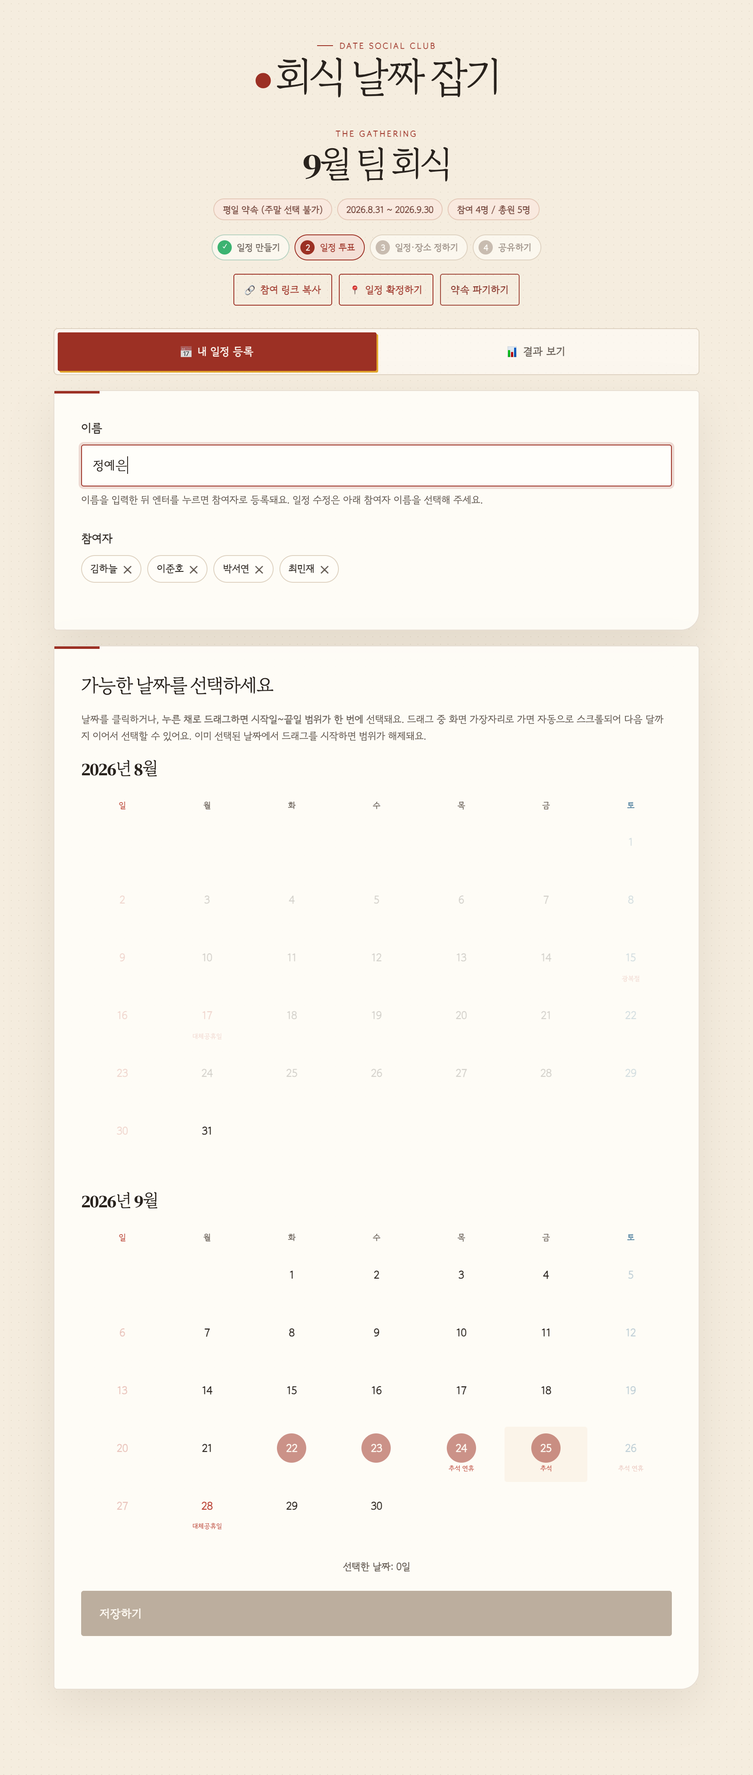
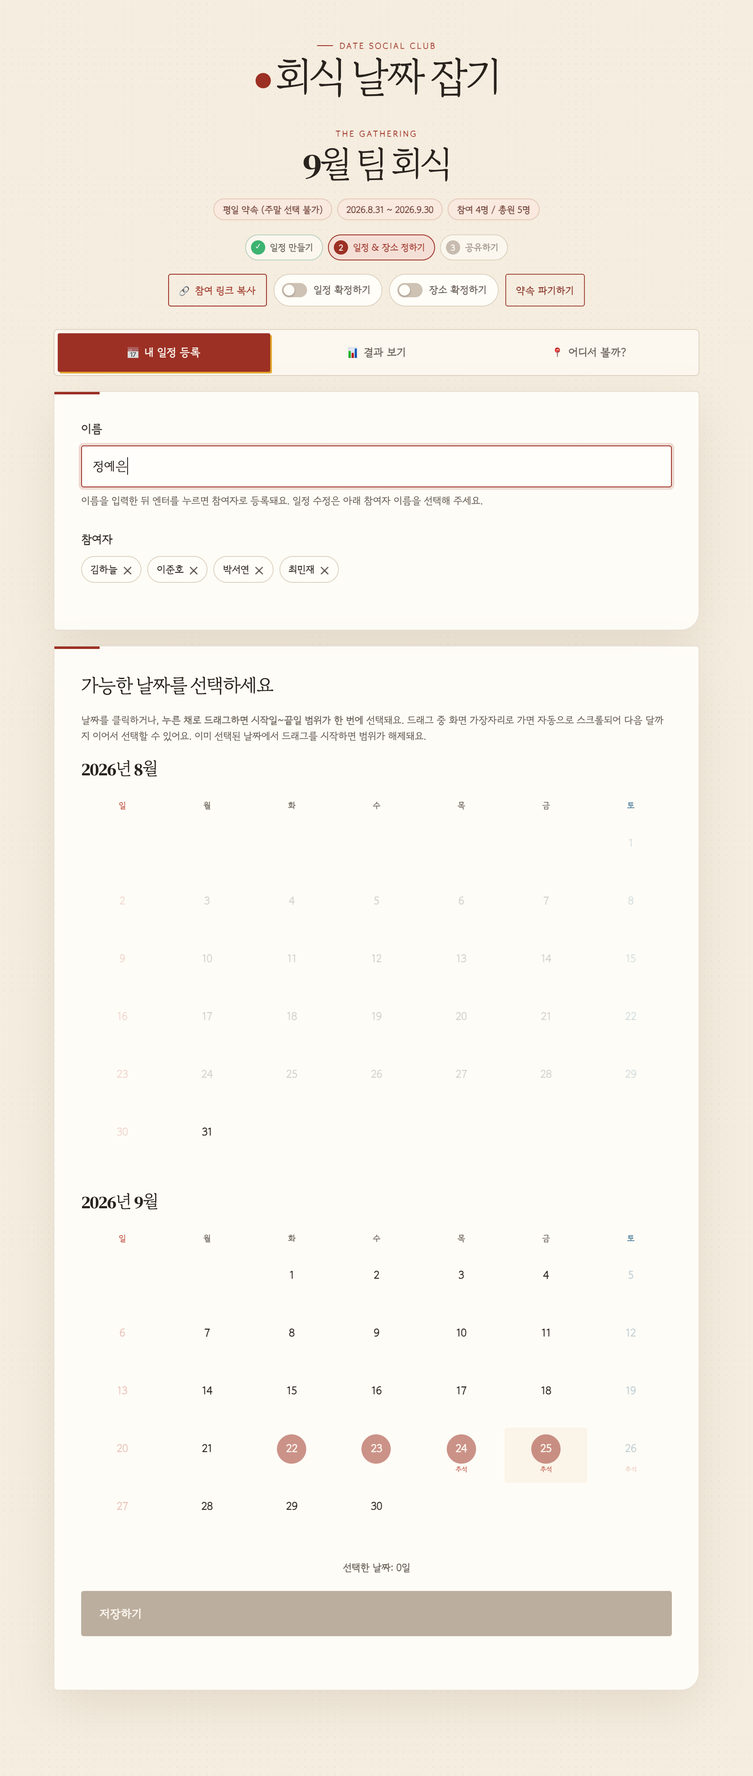
장소 정하기를 일정 확정과 병행하도록 절차 변경
- '어디서 볼까?' 탭을 일정 확정 여부와 무관하게 항상 개방하고,
  후보지 등록·투표·장소 확정의 일정 확정 게이트(409) 제거
- 일정 확정 취소가 장소 확정을 함께 풀던 연쇄 제거 (서로 독립)
- 상단 진행 표시를 3단계(일정 만들기 / 일정 & 장소 정하기 /
  공유하기)로 축소
- 일정·장소 확정 버튼을 ON/OFF 스위치로 변경 (OFF: 확정하기,
  ON: 다시 정하기), 장소 스위치는 득표순 후보 선택 다이얼로그 제공
- 공유 버튼(확정 카드)은 일정+장소 모두 확정됐을 때만 노출하고
  일정 확정 상태 변경 시 후보 목록을 다시 그려 동기화
- 팀즈 공유(teams-export)의 전체 확정 게이트는 유지

Claude-Session: https://claude.ai/code/session_018FYPPB8ih5HsNu38NPAV2M

diff --git a/public/js/event.js b/public/js/event.js
@@ -44,10 +44,9 @@ function isFullyConfirmed() {
 }
 
 // 1단계(만들기)는 이 페이지에 들어온 시점에 이미 끝나 있다.
+// 2단계(일정 & 장소 정하기)는 일정·장소 확정을 병행하고, 둘 다 끝나면 3단계(공유하기).
 function currentStep() {
-  if (isFullyConfirmed()) return 4;
-  if (isScheduleConfirmed()) return 3;
-  return 2;
+  return isFullyConfirmed() ? 3 : 2;
 }
 
 function renderSteps() {
@@ -384,41 +383,51 @@ function formatLockRemaining(lockedUntil) {
   return `${Math.floor(remainingSeconds / 60)}:${String(remainingSeconds % 60).padStart(2, '0')}`;
 }
 
-// 파기·확정이 같은 관리 비밀번호 잠금을 공유하므로 두 버튼을 함께 잠근다.
+// 확정 스위치의 상태(ON/OFF)와 라벨을 함께 갱신한다.
+function setSwitchState(button, on, label) {
+  button.classList.toggle('on', on);
+  button.setAttribute('aria-pressed', String(on));
+  button.querySelector('.switch-label').textContent = label;
+}
+
+// 파기·확정이 같은 관리 비밀번호 잠금을 공유하므로 버튼들을 함께 잠근다.
 function syncManageLockState() {
   clearTimeout(cancelButtonTimer);
   const cancelButton = $('cancel-event');
-  const confirmEventButton = $('confirm-event');
+  const scheduleSwitch = $('confirm-event');
+  const placeSwitch = $('confirm-place-toggle');
   const lockedUntil = eventData.deleteLockedUntil;
   const isLocked = lockedUntil && new Date(lockedUntil).getTime() > Date.now();
-  const confirmed = Boolean(eventData.confirmedAt);
 
-  for (const [button, label] of [
-    [cancelButton, '약속 파기하기'],
-    [confirmEventButton, confirmed ? '↩ 확정 취소하기' : '📍 일정 확정하기'],
-  ]) {
-    if (isLocked) {
-      button.disabled = true;
-      button.textContent = `${formatLockRemaining(lockedUntil)} 후 재시도`;
-      button.title = '관리 비밀번호를 5회 틀려 3분 동안 관리 기능이 잠겼어요.';
-    } else {
-      button.disabled = false;
-      button.textContent = label;
-      button.removeAttribute('title');
-    }
+  if (isLocked) {
+    const remaining = `${formatLockRemaining(lockedUntil)} 후 재시도`;
+    cancelButton.disabled = true;
+    cancelButton.textContent = remaining;
+    setSwitchState(scheduleSwitch, isScheduleConfirmed(), remaining);
+    setSwitchState(placeSwitch, Boolean(confirmedPlace()), remaining);
+  } else {
+    cancelButton.disabled = false;
+    cancelButton.textContent = '약속 파기하기';
+    // 스위치 ON = 확정됨(누르면 다시 정하기), OFF = 미확정(누르면 확정하기)
+    setSwitchState(scheduleSwitch, isScheduleConfirmed(), isScheduleConfirmed() ? '일정 다시 정하기' : '일정 확정하기');
+    setSwitchState(placeSwitch, Boolean(confirmedPlace()), confirmedPlace() ? '장소 다시 정하기' : '장소 확정하기');
   }
+  scheduleSwitch.disabled = isLocked;
+  placeSwitch.disabled = isLocked;
 
-  for (const id of ['cancel-confirm', 'cancel-pin', 'confirm-submit', 'confirm-pin']) $(id).disabled = isLocked;
+  for (const id of ['cancel-confirm', 'cancel-pin', 'confirm-submit', 'confirm-pin', 'place-dialog-submit', 'place-confirm-pin']) {
+    $(id).disabled = isLocked;
+  }
   if (isLocked) cancelButtonTimer = setTimeout(syncManageLockState, 1000);
 }
 
 // 확정 여부에 따라 '어디서 볼까?' 탭을 열고 닫는다.
 function syncConfirmState() {
-  const confirmed = isScheduleConfirmed();
-  $('tab-place').hidden = !confirmed;
+  // 장소 정하기는 일정 확정과 병행하므로 '어디서 볼까?' 탭은 항상 열려 있다.
+  $('tab-place').hidden = false;
   renderHead();
   renderSteps();
-  if (!confirmed && !$('panel-place').hidden) switchTab('vote');
+  syncManageLockState();
 }
 
 function openCancelDialog() {
@@ -584,7 +593,7 @@ function renderPlaceList() {
             <button type="button" class="place-confirm-btn${isConfirmed ? ' confirmed' : ''}" data-place-confirm="${esc(place.id)}">
               ${isConfirmed ? '✓ 확정된 장소 · 다시 누르면 확정 취소' : '이 곳으로 확정하기'}
             </button>
-            ${isConfirmed ? `
+            ${isConfirmed && isScheduleConfirmed() ? `
             <button type="button" class="share-btn" data-share title="확정된 일정을 팀즈로 공유">
               <svg viewBox="0 0 24 24" fill="none" stroke="currentColor" stroke-width="2.2" stroke-linecap="round" stroke-linejoin="round" aria-hidden="true">
                 <path d="M19 13v5a2 2 0 0 1-2 2H7a2 2 0 0 1-2-2V8a2 2 0 0 1 2-2h4" />
@@ -799,11 +808,11 @@ function formatConfirmOption(dateStr) {
 
 function openConfirmDialog() {
   const confirmed = Boolean(eventData.confirmedAt);
-  $('confirm-dialog-title').textContent = confirmed ? '확정을 취소할까요?' : '일정을 확정할까요?';
+  $('confirm-dialog-title').textContent = confirmed ? '일정을 다시 정할까요?' : '일정을 확정할까요?';
   $('confirm-dialog-copy').textContent = confirmed
-    ? "'어디서 볼까?' 탭이 닫혀요. 등록된 후보지와 투표, 만나는 시간은 지워지지 않고 다시 확정하면 그대로 돌아와요."
-    : "만나는 시간을 정하면 '어디서 볼까?' 탭이 열려서 참여자들이 만날 장소를 등록하고 투표할 수 있어요. 날짜는 그대로 계속 수정할 수 있어요.";
-  $('confirm-submit').textContent = confirmed ? '확정 취소하기' : '확정하기';
+    ? '일정 확정을 풀어요. 장소 확정과 후보지·투표·만나는 시간 값은 그대로 남고, 다시 확정하면 이전 값이 채워져요.'
+    : '만나는 날짜와 시간을 확정해요. 장소 정하기는 확정 전에도 어디서 볼까? 탭에서 병행할 수 있어요.';
+  $('confirm-submit').textContent = confirmed ? '확정 풀기' : '확정하기';
   // 확정 취소에는 시간이 필요 없다.
   $('confirm-time-field').hidden = confirmed;
   $('confirm-date-field').hidden = confirmed;
@@ -876,6 +885,8 @@ async function submitConfirm(e) {
     $('confirm-dialog').close();
     syncManageLockState();
     syncConfirmState();
+    // 공유 버튼은 일정+장소가 모두 확정됐을 때만 나오므로 후보 목록도 다시 그린다.
+    renderPlaceList();
     if (isScheduleConfirmed()) switchTab('place');
   } catch (err) {
     errorEl.textContent = err.message;
@@ -1043,22 +1054,53 @@ function storeWebhook(url) {
 
 let pendingPlaceId = null;
 
+// placeId 를 주면 그 후보를 확정하는 모드(카드 버튼), 없으면 득표순 선택 모드(상단 스위치).
 function openPlaceDialog(placeId) {
-  const place = (eventData.places || []).find((candidate) => candidate.id === placeId);
-  if (!place) return;
-  const isConfirmed = place.id === eventData.confirmedPlaceId;
-  pendingPlaceId = placeId;
-  $('place-dialog-title').textContent = isConfirmed ? '장소 확정을 취소할까요?' : '이 곳으로 확정할까요?';
+  const pickField = $('place-dialog-pick-field');
+  const isPickMode = !placeId;
+  let place = null;
+
+  if (isPickMode) {
+    const places = rankedPlaces();
+    if (places.length === 0) {
+      switchTab('place');
+      $('place-error').textContent = '후보지를 먼저 등록해 주세요.';
+      $('place-query').focus();
+      return;
+    }
+    pickField.hidden = false;
+    $('place-confirm-pick').innerHTML = places
+      .map((candidate) => `<option value="${esc(candidate.id)}">${esc(candidate.name)} · ${(candidate.votes || []).length}표</option>`)
+      .join('');
+    place = places[0];
+    pendingPlaceId = place.id;
+  } else {
+    place = (eventData.places || []).find((candidate) => candidate.id === placeId);
+    if (!place) return;
+    pickField.hidden = true;
+    pendingPlaceId = placeId;
+  }
+
+  const isConfirmed = !isPickMode && place.id === eventData.confirmedPlaceId;
+  $('place-dialog-title').textContent = isConfirmed ? '장소를 다시 정할까요?' : '이 곳으로 확정할까요?';
   $('place-dialog-copy').textContent = isConfirmed
-    ? `'${place.name}' 확정을 취소하면 팀즈로 공유할 수 없게 돼요. 후보지와 투표는 그대로 남습니다.`
-    : `'${place.name}'을(를) 최종 장소로 확정하면 팀즈로 공유할 수 있게 돼요.`;
-  $('place-dialog-submit').textContent = isConfirmed ? '확정 취소하기' : '장소 확정하기';
+    ? `'${place.name}' 확정을 풀면 팀즈로 공유할 수 없게 돼요. 후보지와 투표는 그대로 남습니다.`
+    : isPickMode
+      ? '최종 장소를 고르고 확정하면 일정 확정과 함께 공유 단계가 열려요.'
+      : `'${place.name}'을(를) 최종 장소로 확정하면 공유 단계가 열려요.`;
+  $('place-dialog-submit').textContent = isConfirmed ? '확정 풀기' : '장소 확정하기';
   $('place-dialog-link-field').hidden = isConfirmed;
   $('place-confirm-link').value = place.link || '';
   $('place-confirm-pin').value = '';
   $('place-dialog-error').textContent = '';
   $('place-dialog').showModal();
   $('place-confirm-pin').focus();
+}
+
+// 상단 '장소 확정하기' 스위치: OFF→확정 다이얼로그(후보 선택), ON→확정 풀기 다이얼로그
+function togglePlaceConfirm() {
+  const confirmed = confirmedPlace();
+  openPlaceDialog(confirmed ? confirmed.id : null);
 }
 
 async function submitPlaceConfirm(e) {
@@ -1319,6 +1361,12 @@ async function init() {
 
   $('place-dialog-form').addEventListener('submit', submitPlaceConfirm);
   $('place-dialog-close').addEventListener('click', () => $('place-dialog').close());
+  $('confirm-place-toggle').addEventListener('click', togglePlaceConfirm);
+  $('place-confirm-pick').addEventListener('change', (e) => {
+    pendingPlaceId = e.target.value;
+    const picked = (eventData.places || []).find((candidate) => candidate.id === pendingPlaceId);
+    $('place-confirm-link').value = picked && picked.link ? picked.link : '';
+  });
 
   $('cancel-event').addEventListener('click', openCancelDialog);
   $('cancel-dialog-form').addEventListener('submit', cancelEvent);

diff --git a/public/css/style.css b/public/css/style.css
@@ -301,6 +301,17 @@ input:focus-visible { border-color: var(--accent); background: #fffefa; box-shad
 .place-card-footer { display: flex; grid-column: 1 / -1; align-items: stretch; gap: 8px; margin-top: 11px; }
 .place-card-footer .place-confirm-btn { min-width: 0; flex: 1; margin-top: 0; }
 
+/* 확정 ON/OFF 스위치 버튼 */
+.switch-btn { display: inline-flex; align-items: center; gap: 8px; min-height: 38px; padding: 8px 13px 8px 9px; color: var(--ink-soft); border: 1px solid var(--line); border-radius: 999px; background: var(--surface); cursor: pointer; font-size: 12px; font-weight: 700; transition: color 160ms ease, border-color 160ms ease, background 160ms ease; }
+.switch-btn:hover { border-color: #b9a58e; background: var(--surface-warm); }
+.switch-btn:focus-visible { outline: 3px solid rgba(156, 48, 36, 0.35); outline-offset: 3px; }
+.switch-btn:disabled { cursor: not-allowed; opacity: 0.6; }
+.switch-track { position: relative; display: inline-block; width: 30px; height: 17px; flex: 0 0 auto; border-radius: 999px; background: #cec2b4; transition: background 180ms ease; }
+.switch-knob { position: absolute; top: 2px; left: 2px; width: 13px; height: 13px; border-radius: 50%; background: var(--surface); box-shadow: 0 1px 3px rgba(43, 28, 18, 0.35); transition: transform 180ms ease; }
+.switch-btn.on { color: var(--success); border-color: #a6c9b4; background: #eef5f1; }
+.switch-btn.on .switch-track { background: #3cb371; }
+.switch-btn.on .switch-knob { transform: translateX(13px); }
+
 /* 팀즈 공유 버튼 (외부 공유 아이콘 + 라벨) */
 .share-btn { display: inline-flex; flex: 0 0 auto; align-items: center; justify-content: center; gap: 6px; padding: 8px 17px; color: #4a79d9; border: 1px solid #ccdaf6; border-radius: 8px; background: #e8effc; cursor: pointer; font-size: 12px; font-weight: 700; line-height: 1; transition: background 150ms ease, border-color 150ms ease, transform 150ms ease; }
 .share-btn:hover { border-color: #a9c2ef; background: #dbe8fa; transform: translateY(-1px); }
@@ -330,7 +341,7 @@ input:focus-visible { border-color: var(--accent); background: #fffefa; box-shad
 .webhook-fields code { font-family: ui-monospace, SFMono-Regular, Menlo, monospace; }
 
 @media (max-width: 560px) {
-  .wrap { padding: 31px 15px 76px; }.landing-head { padding: 16px 0 30px; }.event-site-head { padding-bottom: 24px; }.card { padding: 24px 18px; border-radius: 3px 3px 17px 3px; }.theme-picker { gap: 5px; }.theme-picker .theme-opt { min-height: 94px; padding-inline: 3px; font-size: 11px; }.theme-picker .theme-opt small { font-size: 9px; }.cal-cell { min-height: 58px; padding-top: 5px; }.cal-day { width: 31px; height: 31px; font-size: 12px; }.cal-holiday { font-size: 7px; }.cal-count { font-size: 8px; }.cal-grid { gap: 1px; }.float-save { bottom: 10px; width: calc(100% - 20px); }.float-save .btn { padding-inline: 16px; }.event-head { padding-bottom: 22px; }.candidate-ranking { padding-block: 23px 20px; }.candidate-ranking-row { grid-template-columns: 47px minmax(0, 1fr); gap: 10px; }.candidate-rank-dates { font-size: 18px; }.cancel-dialog-form { padding: 26px 21px 22px; }.cancel-dialog-actions { flex-direction: column-reverse; }.cancel-dialog-actions .btn { width: 100%; }.tabs button { font-size: 11px; padding-inline: 2px; }.place-map { height: 260px; }.place-card { grid-template-columns: 26px minmax(0, 1fr); }.place-no { width: 26px; height: 26px; font-size: 11px; }.place-actions { grid-column: 1 / -1; flex-direction: row; align-items: center; justify-content: flex-end; gap: 12px; }.place-name { font-size: 17px; }.steps li { font-size: 10px; padding: 4px 9px 4px 5px; }.webhook-field { grid-template-columns: 68px minmax(0, 1fr); }.place-card-footer { flex-direction: column; }.share-btn { min-height: 38px; }.teams-dialog { max-height: 92vh; }.teams-dialog .cancel-dialog-form { max-height: 92vh; }.teams-preview-row { grid-template-columns: 66px minmax(0, 1fr); }.success-dialog-content { padding: 27px 21px; }
+  .wrap { padding: 31px 15px 76px; }.landing-head { padding: 16px 0 30px; }.event-site-head { padding-bottom: 24px; }.card { padding: 24px 18px; border-radius: 3px 3px 17px 3px; }.theme-picker { gap: 5px; }.theme-picker .theme-opt { min-height: 94px; padding-inline: 3px; font-size: 11px; }.theme-picker .theme-opt small { font-size: 9px; }.cal-cell { min-height: 58px; padding-top: 5px; }.cal-day { width: 31px; height: 31px; font-size: 12px; }.cal-holiday { font-size: 7px; }.cal-count { font-size: 8px; }.cal-grid { gap: 1px; }.float-save { bottom: 10px; width: calc(100% - 20px); }.float-save .btn { padding-inline: 16px; }.event-head { padding-bottom: 22px; }.candidate-ranking { padding-block: 23px 20px; }.candidate-ranking-row { grid-template-columns: 47px minmax(0, 1fr); gap: 10px; }.candidate-rank-dates { font-size: 18px; }.cancel-dialog-form { padding: 26px 21px 22px; }.cancel-dialog-actions { flex-direction: column-reverse; }.cancel-dialog-actions .btn { width: 100%; }.tabs button { font-size: 11px; padding-inline: 2px; }.place-map { height: 260px; }.place-card { grid-template-columns: 26px minmax(0, 1fr); }.place-no { width: 26px; height: 26px; font-size: 11px; }.place-actions { grid-column: 1 / -1; flex-direction: row; align-items: center; justify-content: flex-end; gap: 12px; }.place-name { font-size: 17px; }.steps li { font-size: 10px; padding: 4px 9px 4px 5px; }.webhook-field { grid-template-columns: 68px minmax(0, 1fr); }.place-card-footer { flex-direction: column; }.share-btn { min-height: 38px; }.switch-btn { font-size: 11px; padding: 7px 11px 7px 8px; }.teams-dialog { max-height: 92vh; }.teams-dialog .cancel-dialog-form { max-height: 92vh; }.teams-preview-row { grid-template-columns: 66px minmax(0, 1fr); }.success-dialog-content { padding: 27px 21px; }
 }
 
 @media (prefers-reduced-motion: reduce) { *, *::before, *::after { scroll-behavior: auto !important; transition-duration: 0.01ms !important; animation-duration: 0.01ms !important; }.top-pick-spark { animation: none; } }

diff --git a/public/event.html b/public/event.html
@@ -26,13 +26,19 @@
         </div>
         <ol class="steps" id="steps" aria-label="진행 단계">
           <li data-step="1"><b>1</b>일정 만들기</li>
-          <li data-step="2"><b>2</b>일정 투표</li>
-          <li data-step="3"><b>3</b>일정·장소 정하기</li>
-          <li data-step="4"><b>4</b>공유하기</li>
+          <li data-step="2"><b>2</b>일정 &amp; 장소 정하기</li>
+          <li data-step="3"><b>3</b>공유하기</li>
         </ol>
         <div class="toolbar">
           <button type="button" class="btn ghost small" id="copy-link">🔗 참여 링크 복사</button>
-          <button type="button" class="btn ghost small" id="confirm-event">📍 일정 확정하기</button>
+          <button type="button" class="switch-btn" id="confirm-event" aria-pressed="false">
+            <span class="switch-track" aria-hidden="true"><span class="switch-knob"></span></span>
+            <span class="switch-label">일정 확정하기</span>
+          </button>
+          <button type="button" class="switch-btn" id="confirm-place-toggle" aria-pressed="false">
+            <span class="switch-track" aria-hidden="true"><span class="switch-knob"></span></span>
+            <span class="switch-label">장소 확정하기</span>
+          </button>
           <button type="button" class="btn ghost danger small" id="cancel-event">약속 파기하기</button>
         </div>
       </div>
@@ -177,6 +183,11 @@
         <p class="section-kicker">FINAL VENUE</p>
         <h2 id="place-dialog-title">이 곳으로 확정할까요?</h2>
         <p class="cancel-dialog-copy" id="place-dialog-copy"></p>
+        <div class="field" id="place-dialog-pick-field" hidden>
+          <label for="place-confirm-pick">어느 곳으로 확정할까요?</label>
+          <select id="place-confirm-pick"></select>
+          <p class="hint">득표순이에요. 후보 카드의 '이 곳으로 확정하기'로도 지정할 수 있어요.</p>
+        </div>
         <div class="field" id="place-dialog-link-field">
           <label for="place-confirm-link">네이버 지도 링크 (선택)</label>
           <input type="url" id="place-confirm-link" placeholder="https://naver.me/..." maxlength="300" autocomplete="off" spellcheck="false" />

diff --git a/functions/api/events/[id]/places.js b/functions/api/events/[id]/places.js
@@ -1,23 +1,20 @@
 // POST   /api/events/:id/places                  - 후보 장소 등록
 // PUT    /api/events/:id/places                  - 후보 장소 투표 토글
 // DELETE /api/events/:id/places?placeId=...       - 후보 장소 삭제
-import { MAX_PLACES, isSamePlace, isScheduleConfirmed, loadEvent, publicEvent, readJson, saveEvent, validatePlaceInput } from '../../_shared.js';
+import { MAX_PLACES, isSamePlace, loadEvent, publicEvent, readJson, saveEvent, validatePlaceInput } from '../../_shared.js';
 
-// 확정된 약속만 후보 장소를 다룰 수 있다.
-async function loadConfirmedEvent(env, id) {
+// 장소 정하기는 일정 확정과 병행할 수 있다. (공유만 둘 다 확정된 뒤 가능)
+async function loadPlaceEvent(env, id) {
   const event = await loadEvent(env, id);
   if (!event) {
     return { error: Response.json({ error: '약속을 찾을 수 없습니다.' }, { status: 404 }) };
-  }
-  if (!isScheduleConfirmed(event)) {
-    return { error: Response.json({ error: '일정을 먼저 확정해 주세요.' }, { status: 409 }) };
   }
   if (!Array.isArray(event.places)) event.places = [];
   return { event };
 }
 
 export async function onRequestPost({ request, params, env }) {
-  const { event, error } = await loadConfirmedEvent(env, params.id);
+  const { event, error } = await loadPlaceEvent(env, params.id);
   if (error) return error;
 
   const parsed = await readJson(request);
@@ -43,7 +40,7 @@ export async function onRequestPost({ request, params, env }) {
 }
 
 export async function onRequestPut({ request, params, env }) {
-  const { event, error } = await loadConfirmedEvent(env, params.id);
+  const { event, error } = await loadPlaceEvent(env, params.id);
   if (error) return error;
 
   const parsed = await readJson(request);
@@ -68,7 +65,7 @@ export async function onRequestPut({ request, params, env }) {
 }
 
 export async function onRequestDelete({ request, params, env }) {
-  const { event, error } = await loadConfirmedEvent(env, params.id);
+  const { event, error } = await loadPlaceEvent(env, params.id);
   if (error) return error;
 
   const placeId = String(new URL(request.url).searchParams.get('placeId') || '');

diff --git a/server.js b/server.js
@@ -722,9 +722,8 @@ async function handleApi(req, res, url) {
       event.confirmedTime = confirmedTime;
     } else {
       // 날짜·시간은 남겨 두어 다시 확정할 때 이전 값이 채워지게 한다.
-      // 장소 확정은 일정이 풀리면 함께 풀린다.
+      // 장소 확정은 독립이므로 함께 풀지 않는다.
       event.confirmedAt = null;
-      event.confirmedPlaceId = null;
     }
     saveEvent(event);
     return sendJson(res, 200, publicEvent(event));
@@ -745,7 +744,6 @@ async function handleApi(req, res, url) {
       return sendJson(res, 200, publicEvent(event));
     }
 
-    if (!isScheduleConfirmed(event)) return sendJson(res, 409, { error: '일정을 먼저 확정해 주세요.' });
     const place = (event.places || []).find((candidate) => candidate.id === String(body.placeId || ''));
     if (!place) return sendJson(res, 404, { error: '후보 장소를 찾을 수 없습니다.' });
 
@@ -772,7 +770,7 @@ async function handleApi(req, res, url) {
   if (['POST', 'PUT', 'DELETE'].includes(req.method) && parts.length === 4 && parts[1] === 'events' && parts[3] === 'places') {
     const event = loadEvent(parts[2]);
     if (!event) return sendJson(res, 404, { error: '약속을 찾을 수 없습니다.' });
-    if (!isScheduleConfirmed(event)) return sendJson(res, 409, { error: '일정을 먼저 확정해 주세요.' });
+    // 장소 정하기는 일정 확정과 병행할 수 있다. (공유만 둘 다 확정된 뒤 가능)
     if (!Array.isArray(event.places)) event.places = [];
 
     if (req.method === 'POST') {

diff --git a/functions/api/events/[id]/confirm-place.js b/functions/api/events/[id]/confirm-place.js
@@ -1,16 +1,12 @@
-// POST   /api/events/:id/confirm-place - 후보지 하나를 최종 장소로 확정 (공유 단계 열기)
+// POST   /api/events/:id/confirm-place - 후보지 하나를 최종 장소로 확정 (일정 확정과 병행 가능)
 // DELETE /api/events/:id/confirm-place - 장소 확정 취소
-import { checkManagePin, isScheduleConfirmed, loadEvent, normalizePlaceLink, publicEvent, readJson, saveEvent } from '../../_shared.js';
+import { checkManagePin, loadEvent, normalizePlaceLink, publicEvent, readJson, saveEvent } from '../../_shared.js';
 
 export async function onRequestPost({ request, params, env }) {
   const event = await loadEvent(env, params.id);
   if (!event) {
     return Response.json({ error: '약속을 찾을 수 없습니다.' }, { status: 404 });
   }
-  if (!isScheduleConfirmed(event)) {
-    return Response.json({ error: '일정을 먼저 확정해 주세요.' }, { status: 409 });
-  }
-
   const { body, error } = await readJson(request);
   if (error) return error;
 

diff --git a/functions/api/events/[id]/confirm.js b/functions/api/events/[id]/confirm.js
@@ -1,5 +1,5 @@
 // POST   /api/events/:id/confirm - 일정 확정 (날짜 + 만나는 시간 지정, 장소 정하기 단계 열기)
-// DELETE /api/events/:id/confirm - 일정 확정 취소. 장소 확정도 함께 풀린다.
+// DELETE /api/events/:id/confirm - 일정 확정 취소. (장소 확정은 독립이라 유지된다)
 import { CONFIRM_TIME_RE, DATE_RE, checkManagePin, loadEvent, publicEvent, readJson, saveEvent, topCandidateDates } from '../../_shared.js';
 
 export async function onRequestPost({ request, params, env }) {
@@ -53,9 +53,8 @@ export async function onRequestDelete({ request, params, env }) {
   if (denied) return denied;
 
   // 날짜·시간은 남겨 두어 다시 확정할 때 이전 값이 채워지게 한다.
-  // 장소 확정은 일정이 풀리면 함께 풀린다.
+  // 장소 확정은 독립이므로 함께 풀지 않는다.
   event.confirmedAt = null;
-  event.confirmedPlaceId = null;
   await saveEvent(env, event);
   return Response.json(publicEvent(event));
 }
